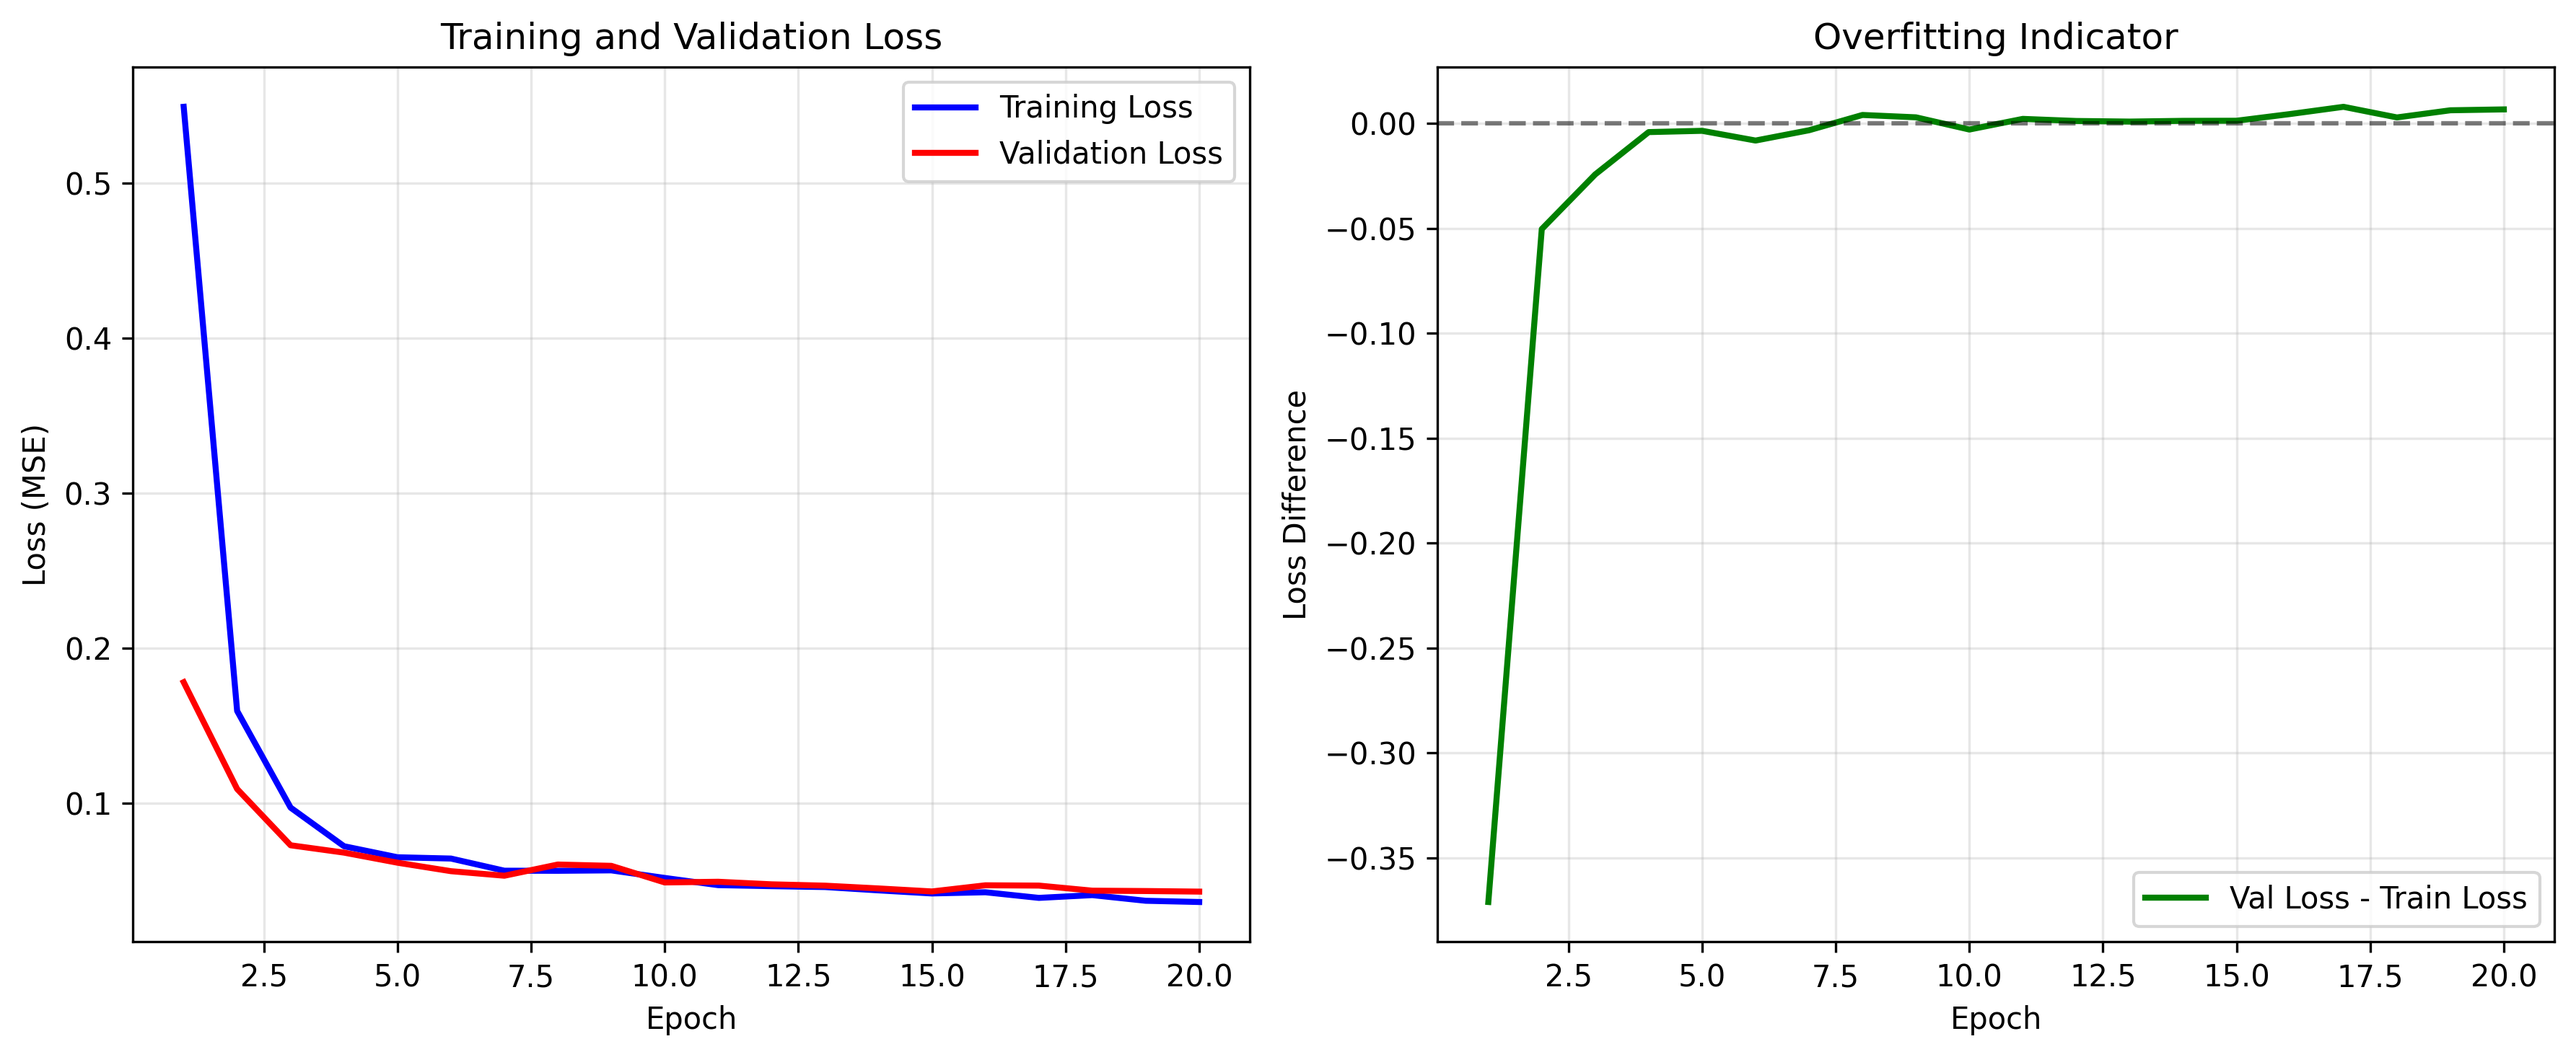
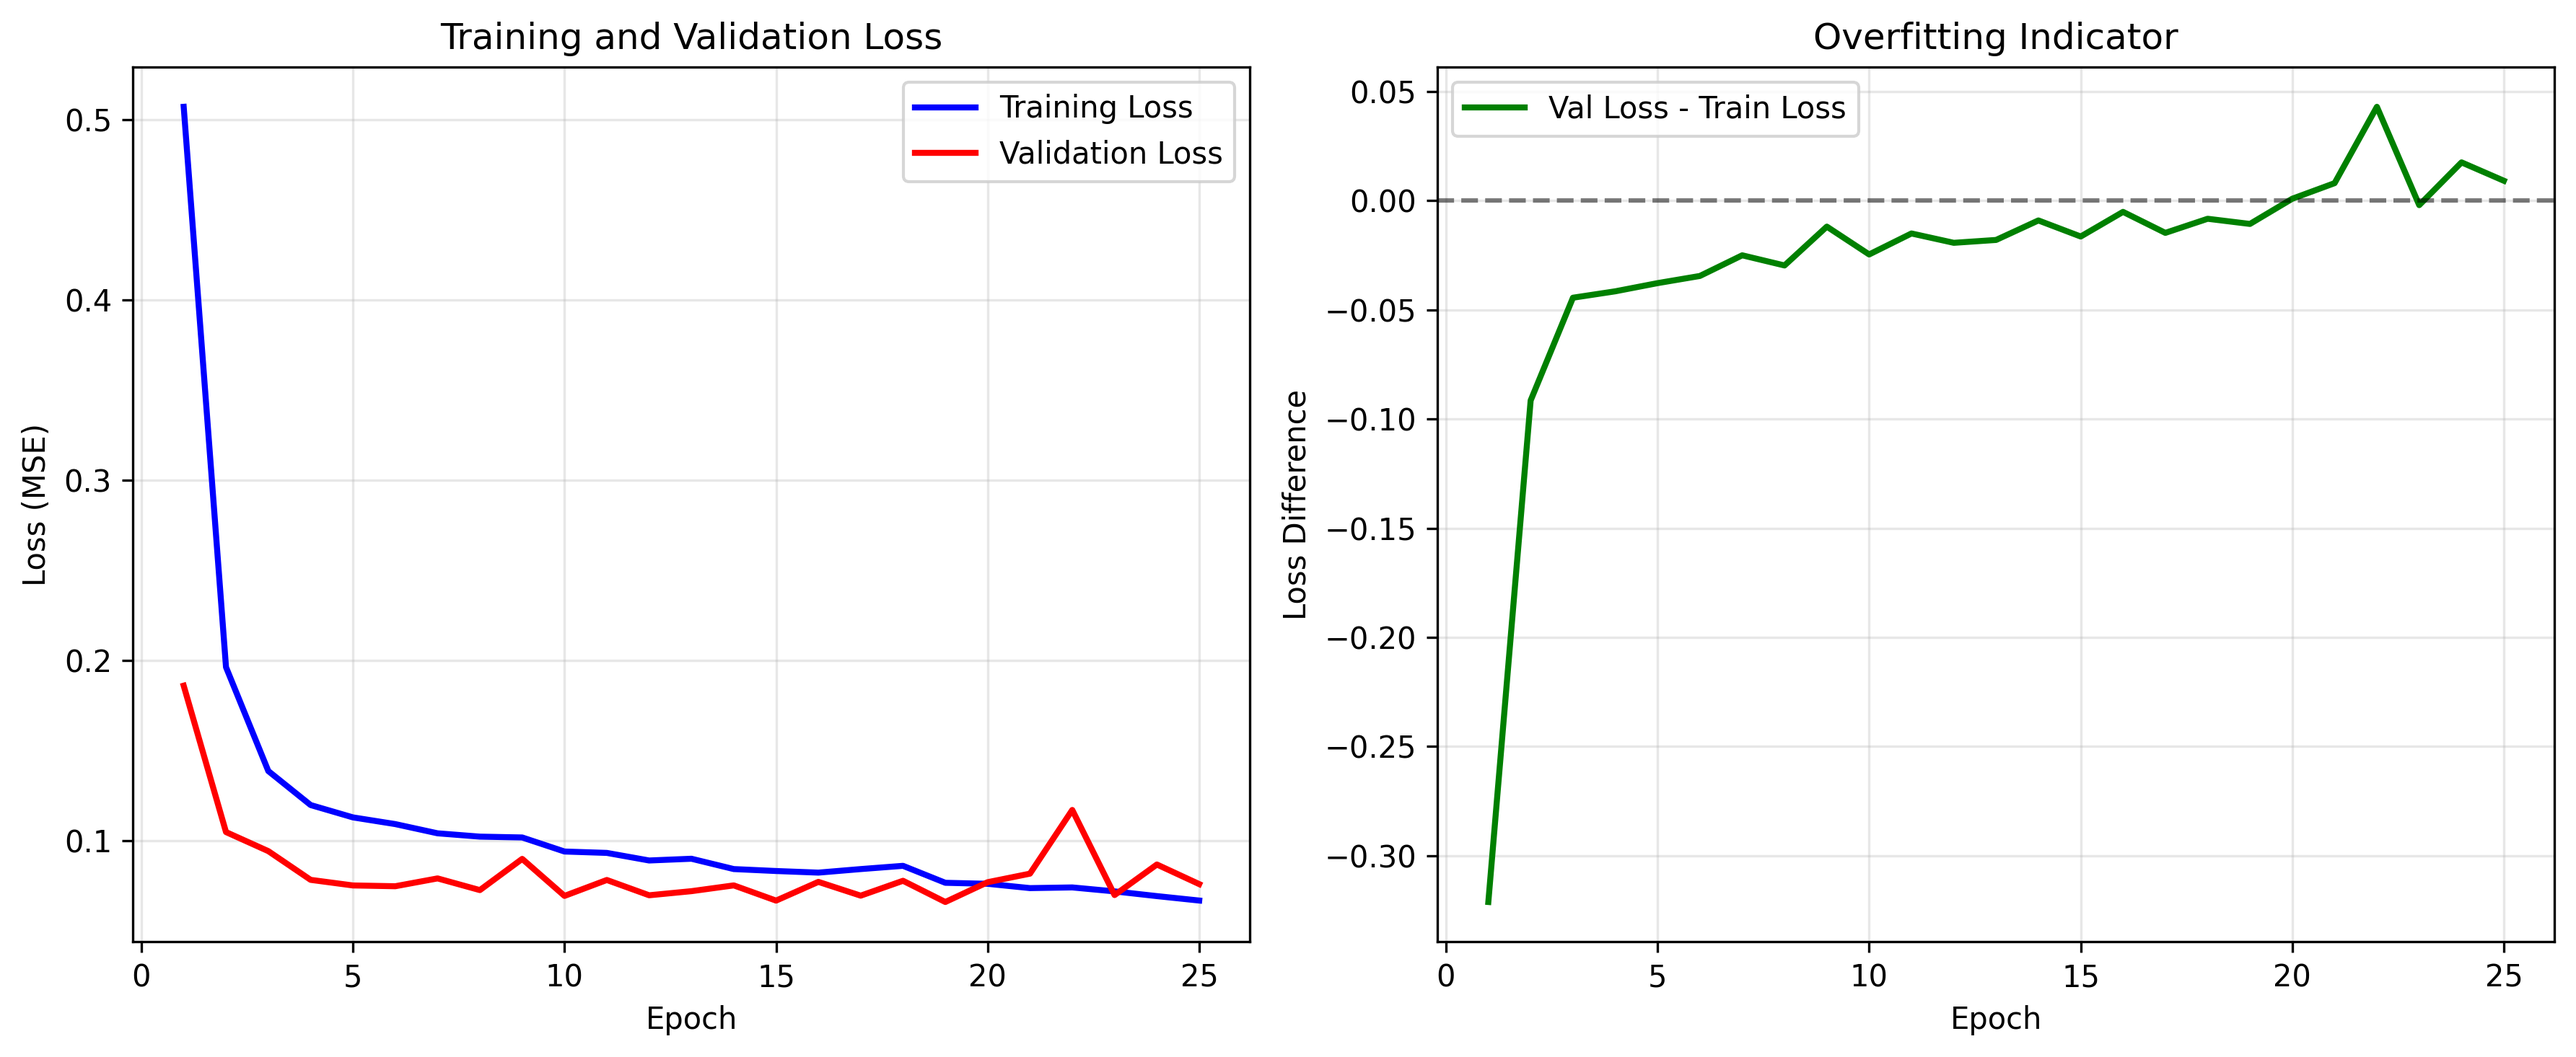
train with mebeauty

diff --git a/src/vit-finetune.py b/src/vit-finetune.py
@@ -25,15 +25,17 @@ class ViT(nn.Module):
         for params in self.backbone.parameters():
             params.requires_grad = False
             
-        for param in self.backbone.encoder.layer[-1].parameters():
+        for param in self.backbone.encoder.layer[-3:].parameters():
             param.requires_grad = True
             
         classifier = nn.Sequential(
             nn.Linear(in_features=768, out_features=HIDDEN_UNITS_VIT), 
             nn.ReLU(inplace=True),
+            nn.Dropout(DROPOUT_PROB),
             nn.Linear(in_features=HIDDEN_UNITS_VIT, out_features=HIDDEN_UNITS_VIT//2), 
             nn.ReLU(inplace=True),
-            nn.Linear(in_features=HIDDEN_UNITS_VIT//2, out_features=1)
+            nn.Dropout(DROPOUT_PROB),
+            nn.Linear(in_features=HIDDEN_UNITS_VIT//2, out_features=1),
         )
         
         self.classifier = classifier
@@ -185,8 +187,10 @@ def test_on_dir(model: ViT, dir_name):
                    if f.endswith((".jpg", ".png", ".jpeg"))]
     
     # sort numbers based on name, to have photo_i.jpg, where i is in ascending order
-    #image_files.sort(key=lambda x: int(x.split('_')[1].split('.')[0]))
-    image_files.sort(key=lambda x: int(x.split(".")[0]))
+    image_files.sort(key=lambda x: int(x.split('_')[1].split('.')[0]))
+    
+    # for thispersondoesnotexist
+    # image_files.sort(key=lambda x: int(x.split(".")[0]))
     
     for file_name in image_files:
         if file_name.endswith(".jpg") or file_name.endswith(".png") or file_name.endswith(".jpeg"):
@@ -211,34 +215,41 @@ def test_on_dir(model: ViT, dir_name):
                 test_on_photo(model=model, path=img_path)
 
 def main(): 
-    # data = data_processor.get_items("res/data_scut", filter=DATASET_FILTER)
-    # avg_data = data_processor.get_averages(data=data)
+    data_scut = data_processor.get_items_scut("res/data_scut", filter=DATASET_FILTER)
+    avg_data = data_processor.get_averages(data=data_scut)
     
-    # random.shuffle(avg_data)
-    # train_test_index = int(len(avg_data) * TRAIN_RATIO)
-    # train_data  = avg_data[:train_test_index]
-    # test_data = avg_data[train_test_index:]
+    data_me_train = data_processor.get_items_mebeauty("res/data_mebeauty/scores/train_crop.csv")
+    data_me_test = data_processor.get_items_mebeauty("res/data_mebeauty/scores/test_crop.csv")
     
-    # train_dataset = CustomDataset(train_data, suffix="train", data_augment=USE_DATA_AUGMENTATION)
-    # test_dataset = CustomDataset(test_data, suffix="test")
-    # trainloader = DataLoader(train_dataset, batch_size=BATCH_SIZE, shuffle=True)
-    # testloader = DataLoader(test_dataset, batch_size=BATCH_SIZE, shuffle=False)
+    data_me = data_me_train + data_me_test
     
-    # print(f"Dataset size: {len(train_dataset)}")
-    # model = ViT()
+    data = avg_data  + data_me
     
-    # train_losses, test_losses = train(
-    #     model=model, 
-    #     train_data=trainloader, 
-    #     test_data=testloader
-    # )
-    # data_processor.plot_training_curves(train_losses=train_losses, eval_losses=test_losses)
-    # saved_model_path = model.save(MODEL_PATH)
+    random.shuffle(data)
+    train_test_index = int(len(data) * TRAIN_RATIO)
+    train_data  = data[:train_test_index]
+    test_data = data[train_test_index:]
     
+    train_dataset = CustomDataset(train_data, suffix="train", data_augment=USE_DATA_AUGMENTATION)
+    test_dataset = CustomDataset(test_data, suffix="test")
+    trainloader = DataLoader(train_dataset, batch_size=BATCH_SIZE, shuffle=True)
+    testloader = DataLoader(test_dataset, batch_size=BATCH_SIZE, shuffle=False)
+    
+    print(f"Dataset size: {len(train_dataset)}")
     model = ViT()
-    model.load("res/models/model1752614241.pth")
+    
+    train_losses, test_losses = train(
+        model=model, 
+        train_data=trainloader, 
+        test_data=testloader
+    )
+    data_processor.plot_training_curves(train_losses=train_losses, eval_losses=test_losses)
+    saved_model_path = model.save(MODEL_PATH)
+    
+    # model = ViT()
+    # model.load("res/models/model1752614241.pth")
 
-    test_on_dir(model=model, dir_name="res/data_thispersondoesnotexist")
+    test_on_dir(model=model, dir_name="res/test")
     
     
 if __name__ == "__main__":

diff --git a/src/data_processor.py b/src/data_processor.py
@@ -11,7 +11,7 @@ from config import *
 
 ratings_name = "All_Ratings.xlsx"
 
-def get_items(data_dir: str, filter:str=""): 
+def get_items_scut(data_dir: str, filter:str=""): 
     
     ratings =  pd.read_excel(os.path.join(data_dir, ratings_name))
     columns =  ratings.columns
@@ -27,6 +27,29 @@ def get_items(data_dir: str, filter:str=""):
     
     return data
 
+def get_items_mebeauty(scores_path:str):
+    df = pd.read_csv(scores_path)
+
+    data_list = []
+    
+    for idx, row in df.iterrows():
+        img_path = row[0]
+        score = row[1]
+        
+        # scut is on [0,5]
+        score = int(score/2)
+        
+        parent_path = "res/data_mebeauty"
+        img_path = os.path.join(parent_path, img_path)
+        # print(f"Image path: {img_path}, score: {score}")
+        
+        if not os.path.exists(img_path):
+            print(f"Image {img_path} not found, skipping...")
+            continue
+        
+        data_list.append((img_path, score))
+        
+    return data_list
 
 def get_averages(data: Tuple[str, int]) -> Tuple[float, float]:
     hash_map = {}
@@ -82,7 +105,7 @@ def plot_training_curves(train_losses, eval_losses):
 if __name__ == "__main__":
     filter = "F"        # only female -F
                         # only male   -M
-    data = get_items("res/data_scut", filter=filter)
+    data = get_items_scut("res/data_scut", filter=filter)
     
     avg_data = get_averages(data=data)
     datasets.CustomDataset(avg_data, suffix="train")

diff --git a/src/datasets.py b/src/datasets.py
@@ -1,5 +1,7 @@
 import pickle
 import os
+import glob
+import pandas as pd
 
 from typing import Tuple, Optional
 
@@ -172,5 +174,50 @@ class CustomDataset(Dataset):
             img = self.transform(img)
 
         return img, rating
-            
+    
+    
+
+
+    
+def main(): 
+    dir_path = "res/data_mebeauty/cropped_images/images_crop_align_mtcnn"
+    train_scores_path = "res/data_mebeauty/scores/train_crop.csv"
+    test_scores_path = "res/data_mebeauty/scores/test_crop.csv"
+    
+    
+    image_paths = glob.glob(f"{dir_path}/**/*.jpg", recursive=True)
+    
+    print(image_paths[:5])
+    
+    df = pd.read_csv(train_scores_path)
+    print(f"Train scores: {df.shape[0]} images")
+    print(f"img path: {df.iloc[0, 0]}, score: {df.iloc[0, 1]}")
+    
+    data_list = []
+    
+    for idx, row in df.iterrows():
+        img_path = row[0]
+        score = row[1]
         
+        parent_path = "res/data_mebeauty"
+        img_path = os.path.join(parent_path, img_path)
+        # print(f"Image path: {img_path}, score: {score}")
+        
+        if not os.path.exists(img_path):
+            print(f"Image {img_path} not found, skipping...")
+            continue
+        
+        data_list.append((img_path, score))
+        
+    dataset = CustomDataset(
+        data=data_list, 
+        suffix="train", 
+        data_augment=True, 
+        clip_preprocess=False
+    )
+    
+        
+        
+if __name__ == "__main__":
+    main()
+    

diff --git a/src/config.py b/src/config.py
@@ -1,10 +1,10 @@
 from time import time
 
 FC_DIM_SIZE = 1024
-DROPOUT_PROB = 0.5
+DROPOUT_PROB = 0.3
 OUTFEATURES = 1
-LR = 4e-5
-EPOCHS = 20
+LR = 1.5e-5
+EPOCHS = 25
 BATCH_SIZE = 256
 
 
@@ -15,9 +15,6 @@ MODEL_PATH = f"res/models/model{int(time())}.pth"
 # see src/datasets.py
 PREFIX_DATASET = "res/preprocessed_data/preprocessed_data"
 
-# path of the scut images
-SCUT_IMAGE_PATH = "res/data_scut/Images"
-
 # what amount of data set to use for training
 TRAIN_RATIO = 0.8
 
@@ -26,13 +23,19 @@ IMAGE_SIZE = (224,224)
 MODEL_TYPE = "resnet18"
 
 
-# for the dataset
+# for the dataset SCUT
 # female - "F"
 # male   - "M"
 # none   - ""
 DATASET_FILTER = ""       
 USE_DATA_AUGMENTATION = True 
 
+# path of the scut images
+SCUT_IMAGE_PATH = "res/data_scut/Images"
+
 CROPPED = False    # crop the image using facent/mntt
 
 CLIP_MODEL = "ViT-L/14@336px"
+
+# for the dataset mebeauty
+ME_PARENT_PATH = "res/data_mebeauty"

diff --git a/src/clip_finetuning.py b/src/clip_finetuning.py
@@ -115,7 +115,7 @@ def train(model: CLIP, train_data: DataLoader, test_data: DataLoader):
     return losses, test_losses
     
 def main(): 
-    data = data_processor.get_items("res/data_scut", filter=DATASET_FILTER)
+    data = data_processor.get_items_scut("res/data_scut", filter=DATASET_FILTER)
     avg_data = data_processor.get_averages(data=data)
     
     

diff --git a/src/main.py b/src/main.py
@@ -103,7 +103,7 @@ def test_on_dir(model: CNN, dir_name):
 
 
 def main(): 
-    data = data_processor.get_items("res/data_scut", filter=DATASET_FILTER)
+    data = data_processor.get_items_scut("res/data_scut", filter=DATASET_FILTER)
     avg_data = data_processor.get_averages(data=data)
     
     random.shuffle(avg_data)
